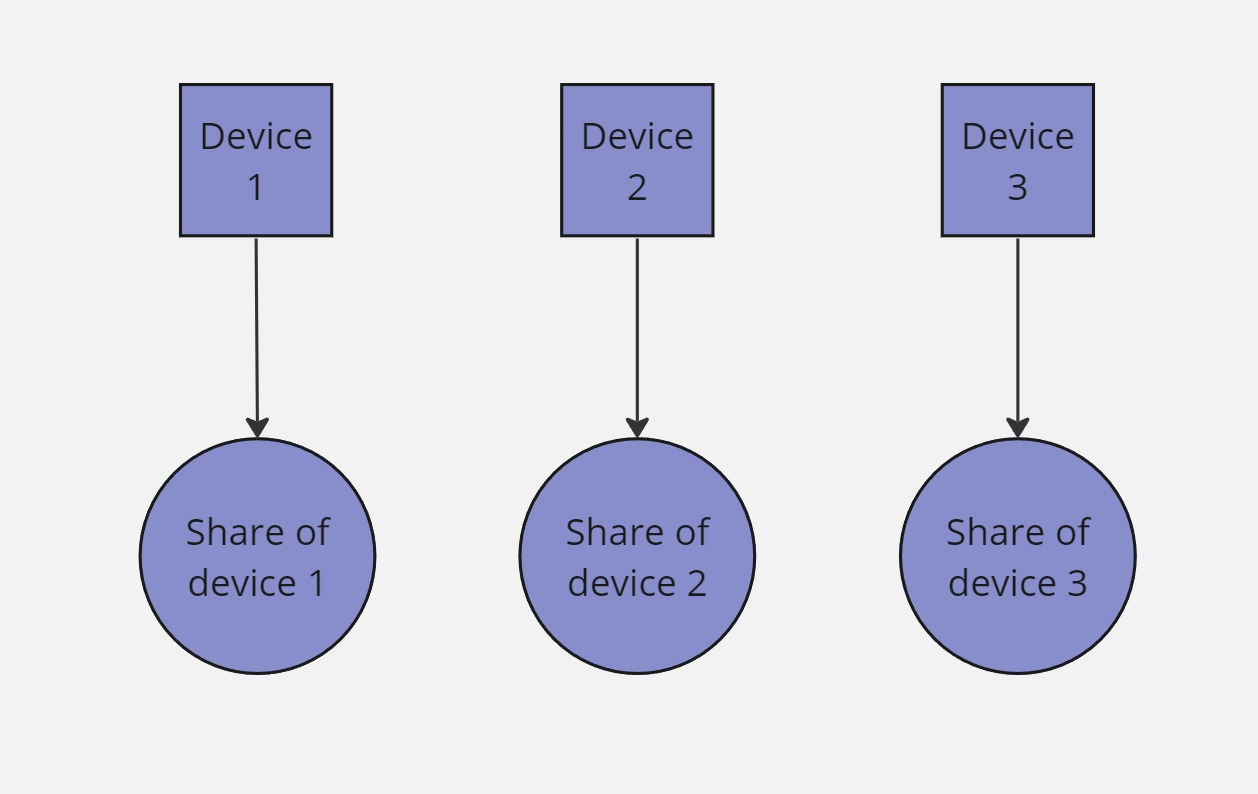
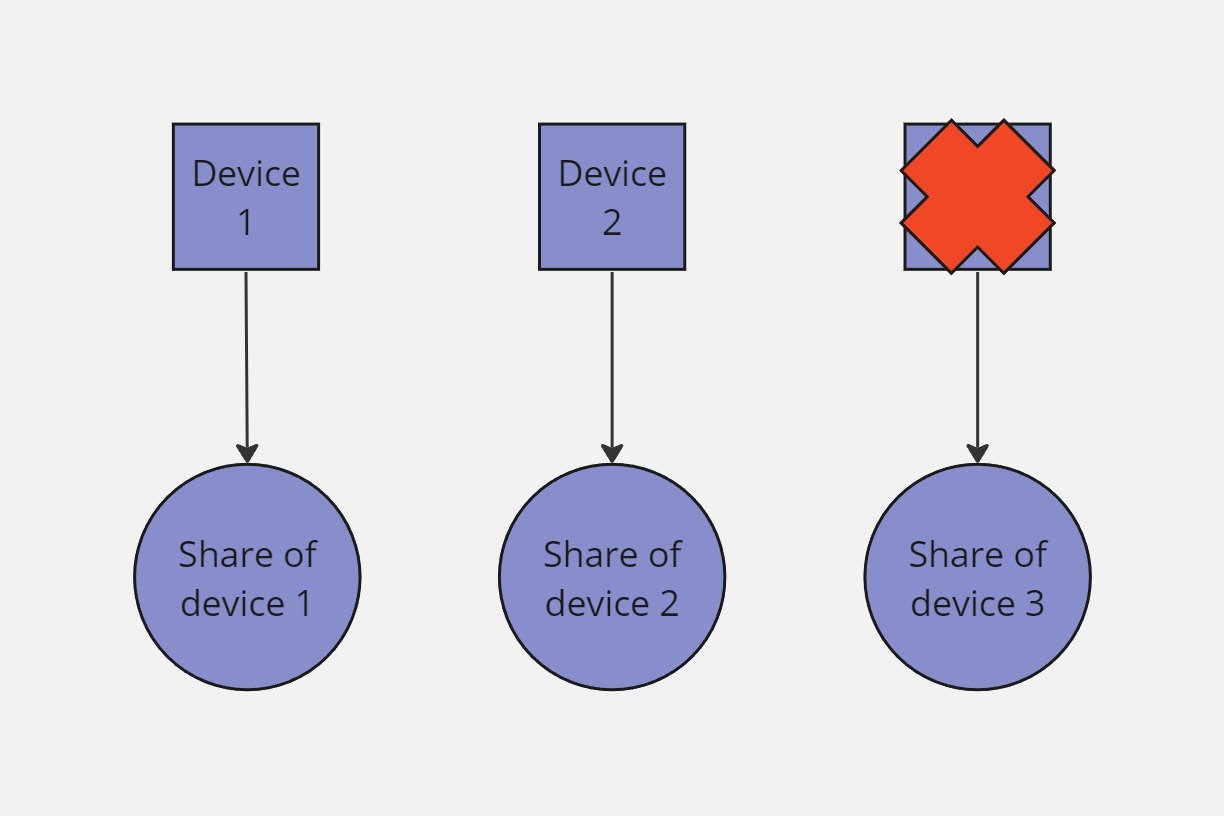
GITBOOK-24: Managing Vault and Ticker change

diff --git a/user-actions/managing-your-vault/vault-backup.md b/user-actions/managing-your-vault/vault-backup.md
@@ -14,8 +14,6 @@ description: This is where you can export a vault share.
 Do not store vault shares of the same vault from different devices in the same location as it means a malicous party can re-construct your vault.
 {% endhint %}
 
-***
-
 **Digital Storage Suggetions**
 
 * Store vault-shares on different cloud drives
@@ -28,23 +26,21 @@ Do not store vault shares of the same vault from different devices in the same l
 Each backup is only as safe as the medium and password used where the vault-share is stored
 {% endhint %}
 
-***
-
 **Recovering a lost device**
 
-As each vault share is unique the lost device can only be recovered with the respective backup of the vault-share. \
-
+As each vault share is unique the lost device can only be recovered with the respective backup of the vault-share.&#x20;
 
 Example:\
-Lets say we have 3 devices and 3 backups of each device. Then we loose device 3.
+Lets say we have 3 devices and 3 backups of each device. Then we loose device 3.\
 
-<figure><img src="../../.gitbook/assets/reconstruct 1 (1).jpg" alt="" width="375"><figcaption><p>3 devices, 3 shares, 1 device lost</p></figcaption></figure>
+
+<figure><img src="../../.gitbook/assets/reconstruct 1.jpg" alt="" width="375"><figcaption><p>3 devices, 3 shares, 1 device lost</p></figcaption></figure>
 
 * If device 3 is lost, it can only be recovered with using the backup-share of device 3 on a new device.
 * If installing a share of device 1 or 2 on the new device the vault can´t be accessed, as two of the same shares can´t sign the vault.
 * If installing backup-share 3 on device 1 or 2 the respective device gets overridden as device 3.
 
-<figure><img src="../../.gitbook/assets/reconstruct 2 (1).jpg" alt="" width="375"><figcaption><p>Possible recreations</p></figcaption></figure>
+<figure><img src="../../.gitbook/assets/reconstruct 2.jpg" alt="" width="375"><figcaption><p>Possible recreation</p></figcaption></figure>
 
 {% hint style="info" %}
 Two of the same vault-shares can never access a vault

diff --git a/user-actions/managing-your-vault/vault-reshare.md b/user-actions/managing-your-vault/vault-reshare.md
@@ -8,7 +8,7 @@ Reshare is a function where you can reshare the individual shares to the other d
 
 To reshare the vault please follow the instruction to create a Vault: [#setup](../creating-a-vault.md#setup "mention")
 
-<figure><img src="../../.gitbook/assets/image (3).png" alt="" width="375"><figcaption><p>Resharing the vault</p></figcaption></figure>
+<figure><img src="../../.gitbook/assets/image (1).png" alt="" width="375"><figcaption></figcaption></figure>
 
 {% hint style="warning" %}
 When "removing" a device from your vault, make sure that the backup file is also deleted completely. As cryptographically it is not possible to render old backups useless.

diff --git a/voltix-token/usdvltx.md b/voltix-token/usdvltx.md
@@ -2,7 +2,7 @@
 description: The purpose of the Vultisig Token
 ---
 
-# $VLTI
+# $VULT
 
 Vultisig fulfils four important purposes:
 
@@ -11,7 +11,7 @@ Vultisig fulfils four important purposes:
 3. To provide incentives to contributors to build the product
 4. To allow anyone to support the adoption trajectory of the product
 
-### The Vultisig Token $VLTI
+### The Vultisig Token $VULT
 
 * 100,000,000 starting supply
 * 80% in launch liquidity

diff --git a/user-actions/managing-your-vault/vault-details.md b/user-actions/managing-your-vault/vault-details.md
@@ -6,13 +6,7 @@ description: >-
 
 # Vault Details
 
-
-
-<div data-full-width="false">
-
-<figure><img src="../../.gitbook/assets/image.png" alt="" width="375"><figcaption><p>View of Vault Details</p></figcaption></figure>
-
-</div>
+<figure><img src="../../.gitbook/assets/image (3).png" alt="" width="375"><figcaption><p>View of Vault Details</p></figcaption></figure>
 
 **Vault Name:** Name of current Vault
 

diff --git a/user-actions/managing-your-vault/vault-rename.md b/user-actions/managing-your-vault/vault-rename.md
@@ -6,6 +6,8 @@ description: Here you can rename your vault.
 
 <figure><img src="../../.gitbook/assets/image (2).png" alt="" width="188"><figcaption></figcaption></figure>
 
+
+
 {% hint style="info" %}
 So far it only renames the local vault name, and doesn't affect other devices (will change soon).
 {% endhint %}

diff --git a/user-actions/managing-your-vault/README.md b/user-actions/managing-your-vault/README.md
@@ -1,6 +1,7 @@
 ---
-description: How to manage a vault
+description: How to manage a vault with the different Functions
 ---
 
 # Managing your Vault
 
+<figure><img src="../../.gitbook/assets/ManageVault.png" alt=""><figcaption></figcaption></figure>

diff --git a/SUMMARY.md b/SUMMARY.md
@@ -20,7 +20,7 @@
 
 ## VULTISIG Token
 
-* [$VLTI](voltix-token/usdvltx.md)
+* [$VULT](voltix-token/usdvltx.md)
 * [Launch](voltix-token/launch.md)
 * [Airdrop](voltix-token/airdrop.md)
 
